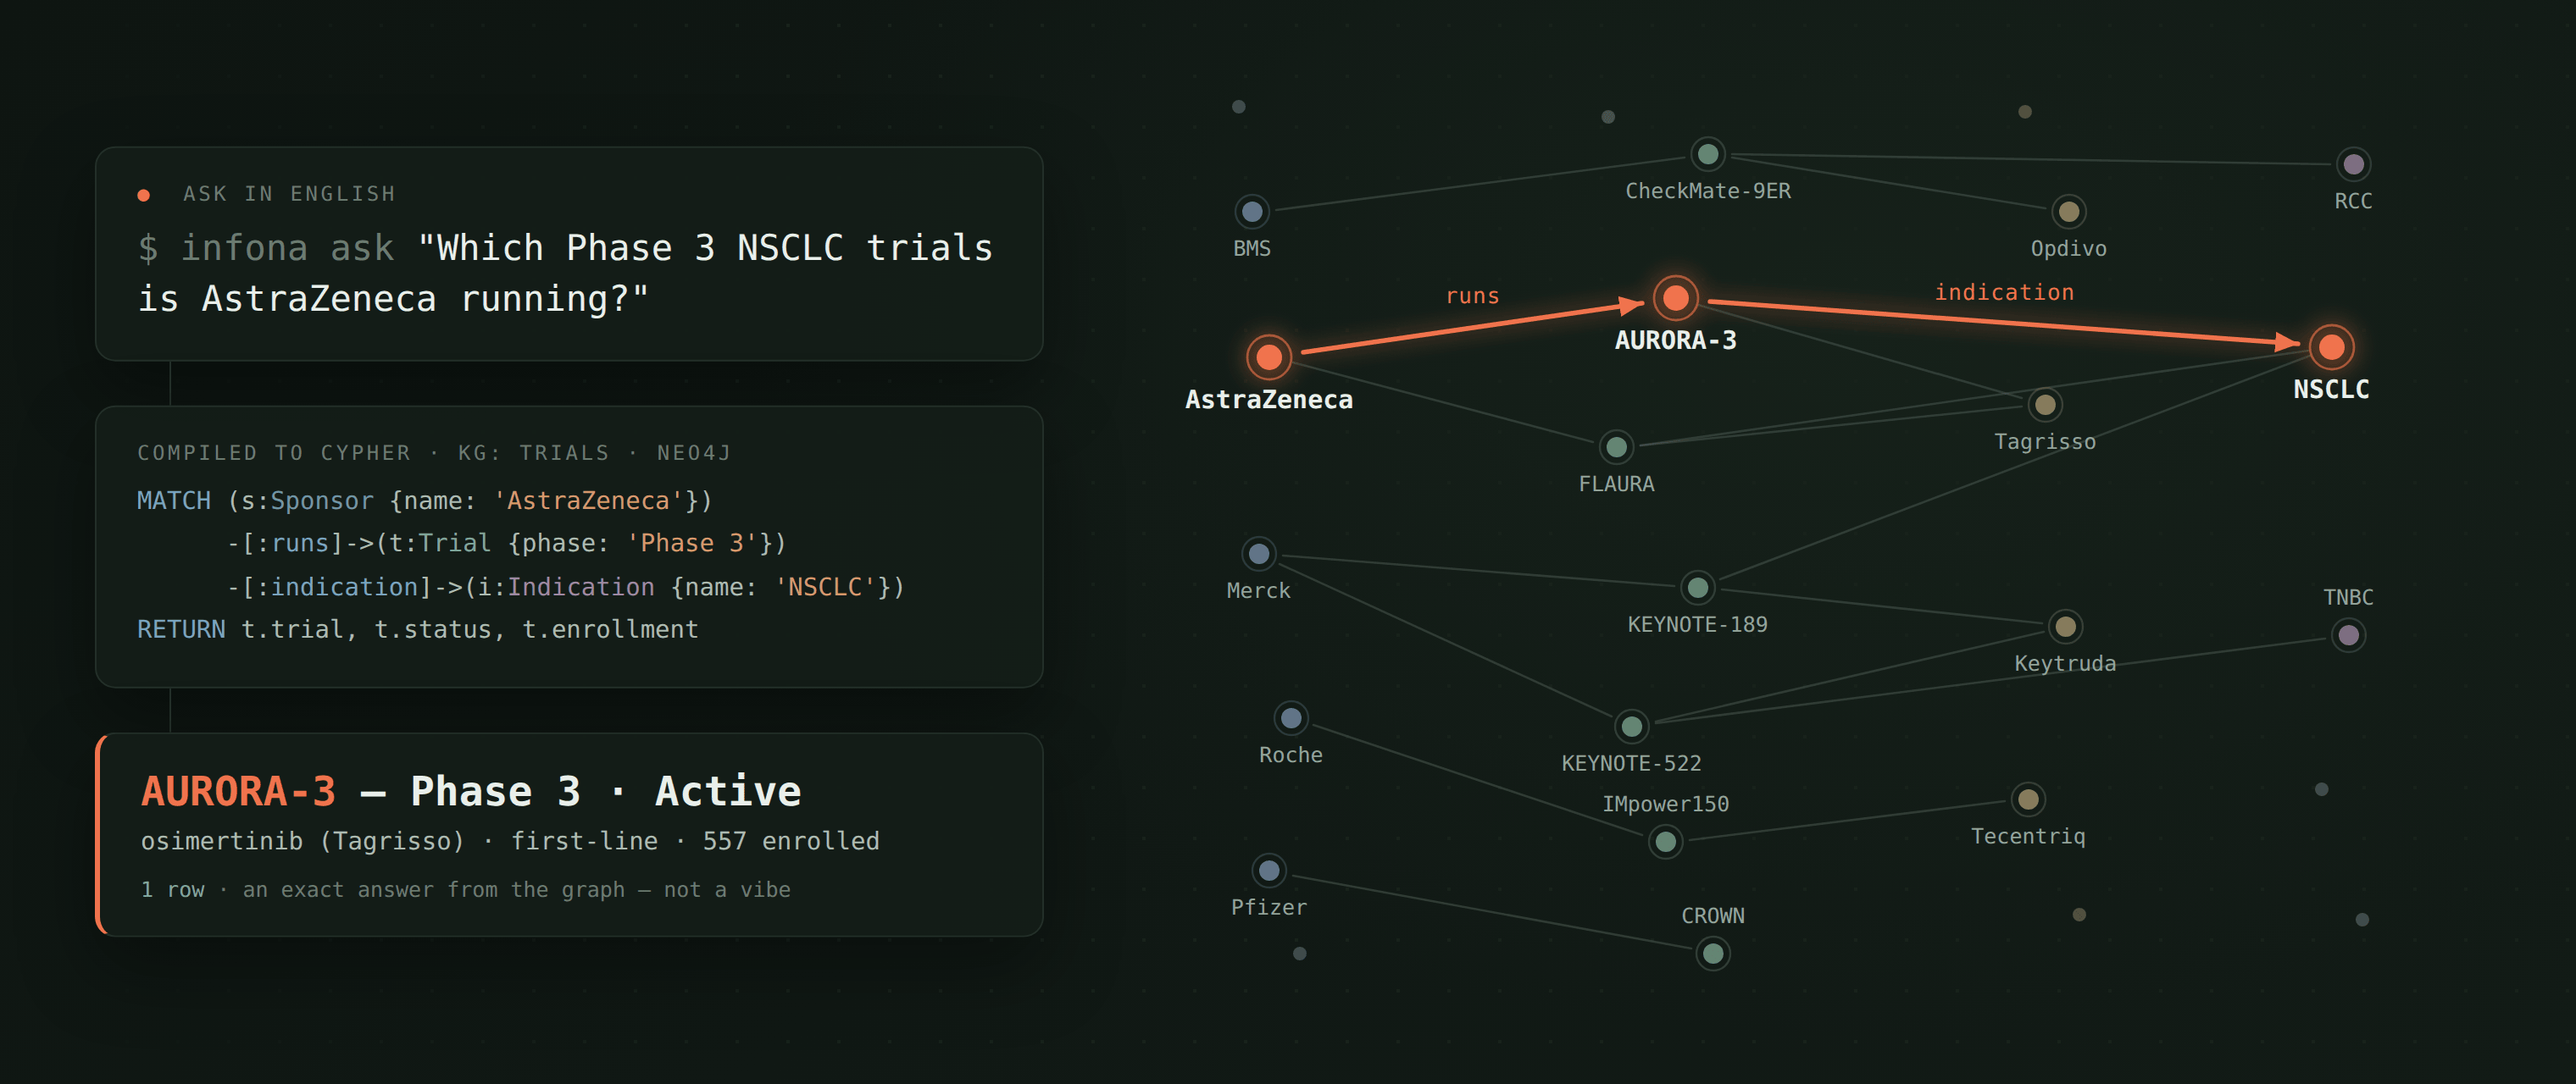
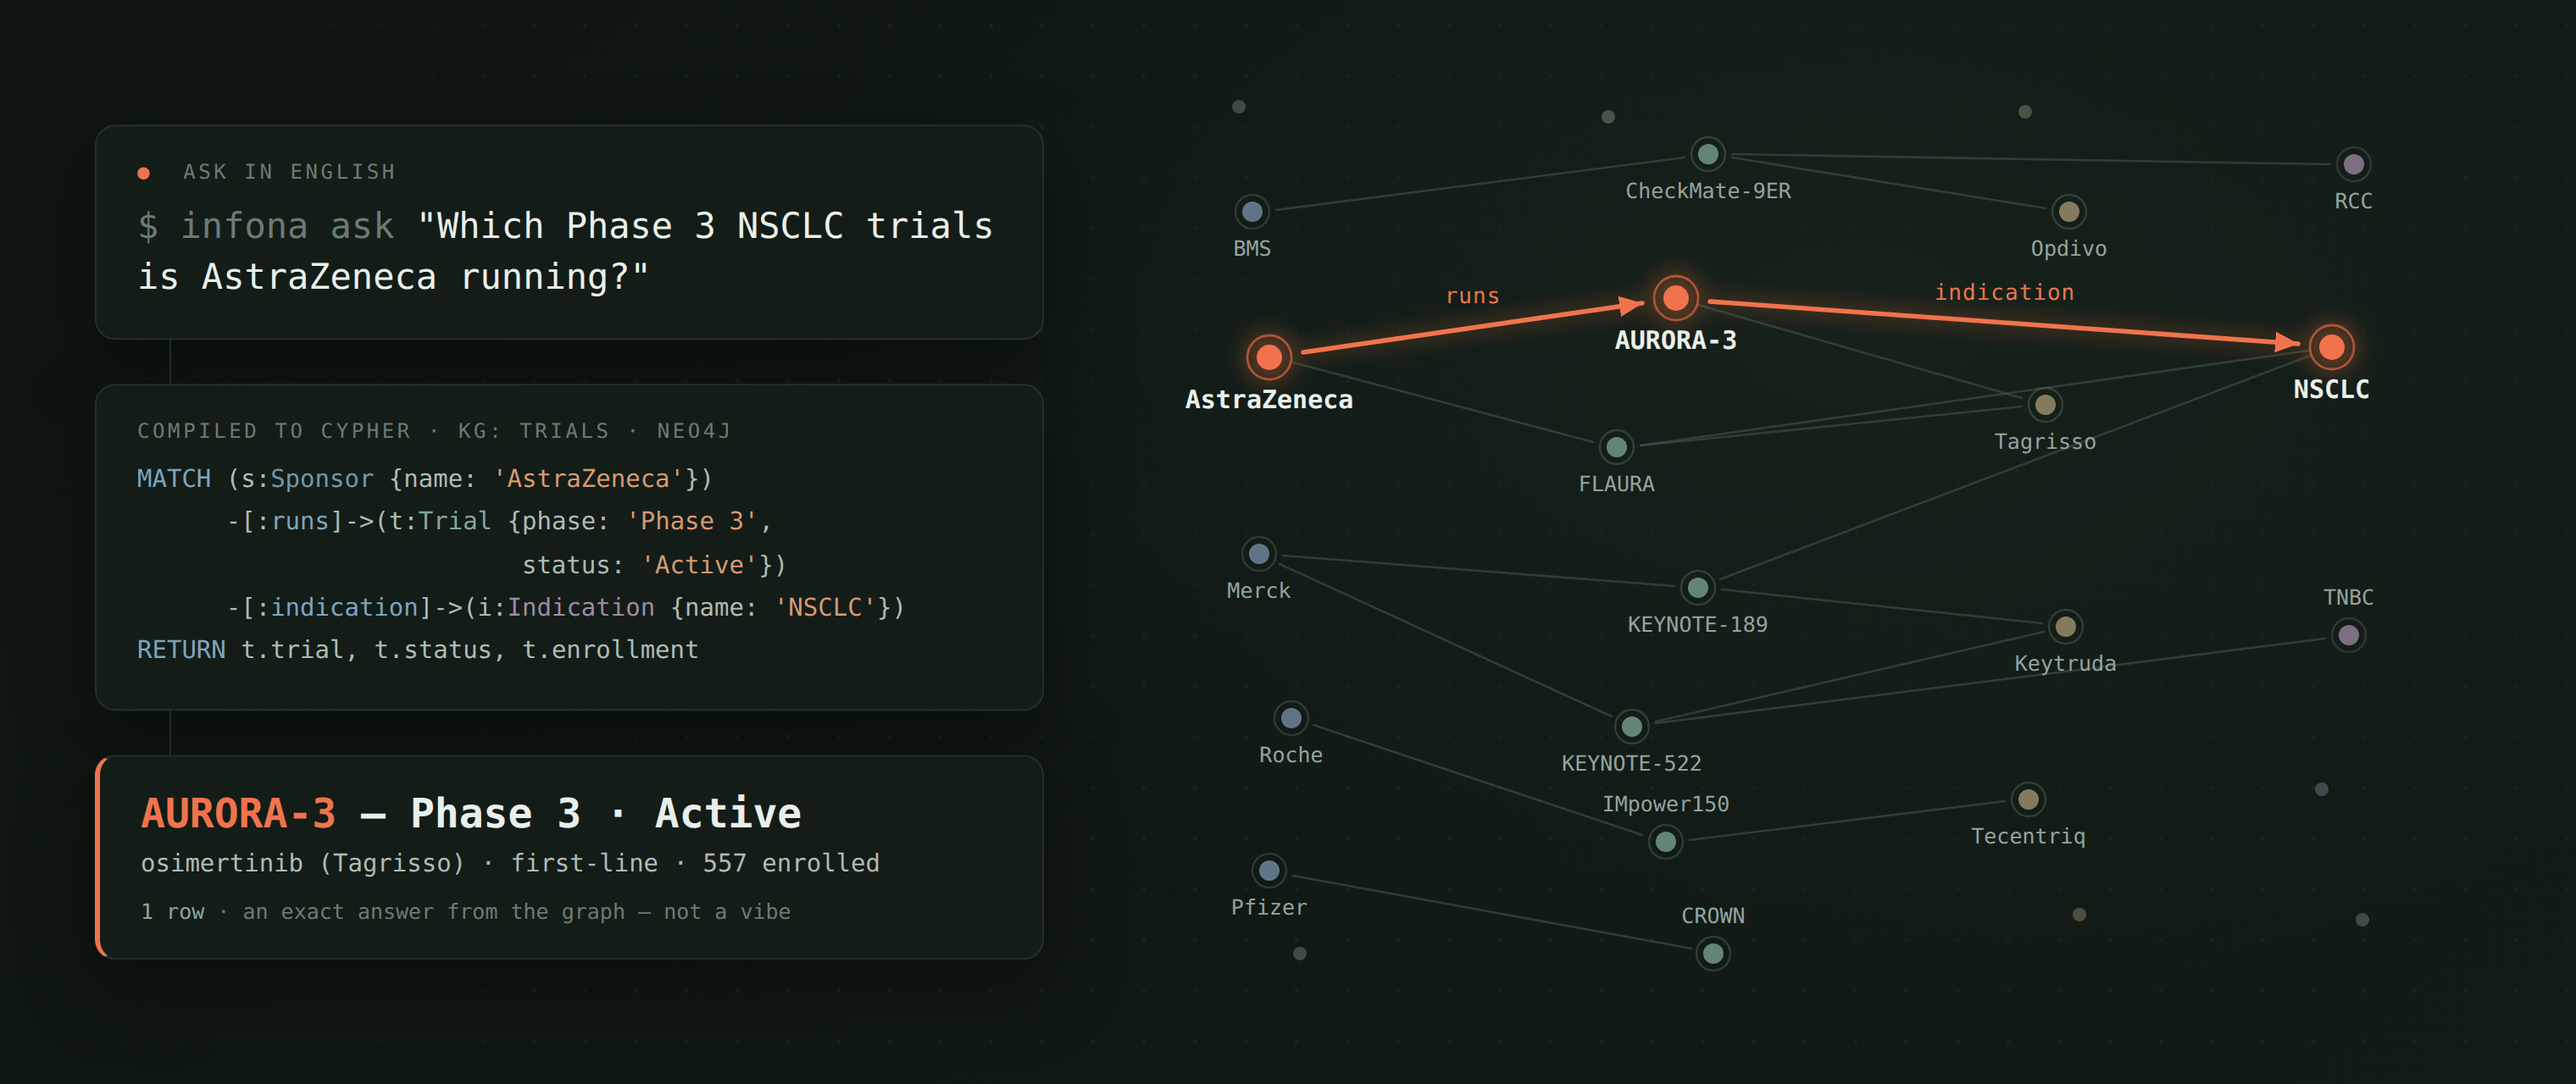
docs: add status filter to demo Cypher so the 1-row claim holds
Judge review caught that the displayed Cypher had no status predicate:
against examples/trials.csv it would return 2 rows (AURORA-3 Active +
FLAURA Completed) while the answer card claims '1 row · exact'. Compile
'is running' honestly as status: 'Active' in both the hero and the ask
animation; the shown query now produces exactly the shown answer.

Claude-Session: https://claude.ai/code/session_015gMk3si6rGbuzgXAX3y9jH

Changed region(s): [[0.0312, 0.375, 0.3438, 0.625], [0.0312, 0.7188, 0.3438, 0.8438], [0.0625, 0.1562, 0.375, 0.2812]]

diff --git a/scripts/render_readme_demos.py b/scripts/render_readme_demos.py
@@ -492,12 +492,13 @@ def write_ask() -> str:
     parts.append(cursor(TX + 21 * ADV, y, tg + 0.010, tc, dur))
     out([("Cypher:", FG)], tc, dy=1.6)
     out([("MATCH ", CY_KW), ("(s:", OUT_FG), ("Sponsor", C_SPONSOR), (" {name: ", OUT_FG), ("'AstraZeneca'", CY_STR), ("})", OUT_FG)], tc + 0.030, dy=1.3)
-    out([("      -[:", OUT_FG), ("runs", CY_KW), ("]->(t:", OUT_FG), ("Trial", C_TRIAL), (" {phase: ", OUT_FG), ("'Phase 3'", CY_STR), ("})", OUT_FG)], tc + 0.060)
-    out([("      -[:", OUT_FG), ("indication", CY_KW), ("]->(i:", OUT_FG), ("Indication", C_IND), (" {name: ", OUT_FG), ("'NSCLC'", CY_STR), ("})", OUT_FG)], tc + 0.090)
-    out([("RETURN", CY_KW), (" t.trial, t.status, t.enrollment", OUT_FG)], tc + 0.120)
+    out([("      -[:", OUT_FG), ("runs", CY_KW), ("]->(t:", OUT_FG), ("Trial", C_TRIAL), (" {phase: ", OUT_FG), ("'Phase 3'", CY_STR), (",", OUT_FG)], tc + 0.055)
+    out([("                          status: ", OUT_FG), ("'Active'", CY_STR), ("})", OUT_FG)], tc + 0.080)
+    out([("      -[:", OUT_FG), ("indication", CY_KW), ("]->(i:", OUT_FG), ("Indication", C_IND), (" {name: ", OUT_FG), ("'NSCLC'", CY_STR), ("})", OUT_FG)], tc + 0.105)
+    out([("RETURN", CY_KW), (" t.trial, t.status, t.enrollment", OUT_FG)], tc + 0.130)
 
     # exact answer
-    ta = tc + 0.210
+    ta = tc + 0.220
     out([("A: ", ACCENT), ("One — ", FG), ("AURORA-3", ACCENT), (", the only active Phase 3", FG)], ta, dy=1.7)
     out([("   NSCLC trial AstraZeneca is running:", FG)], ta + 0.012)
     out([("   osimertinib (Tagrisso) · first-line · 557 enrolled", OUT_FG)], ta + 0.024)

diff --git a/scripts/render_readme_hero.py b/scripts/render_readme_hero.py
@@ -177,7 +177,8 @@ def html() -> str:
     <div class="card">
       <div class="k">COMPILED TO CYPHER · KG: TRIALS · NEO4J</div>
       <div class="cy"><span class="kw">MATCH</span> (s:<span class="sp">Sponsor</span> {{name: <span class="s">'AstraZeneca'</span>}})
-      -[:<span class="kw">runs</span>]-&gt;(t:<span class="tr">Trial</span> {{phase: <span class="s">'Phase 3'</span>}})
+      -[:<span class="kw">runs</span>]-&gt;(t:<span class="tr">Trial</span> {{phase: <span class="s">'Phase 3'</span>,
+                          status: <span class="s">'Active'</span>}})
       -[:<span class="kw">indication</span>]-&gt;(i:<span class="in">Indication</span> {{name: <span class="s">'NSCLC'</span>}})
 <span class="kw">RETURN</span> t.trial, t.status, t.enrollment</div>
     </div>
